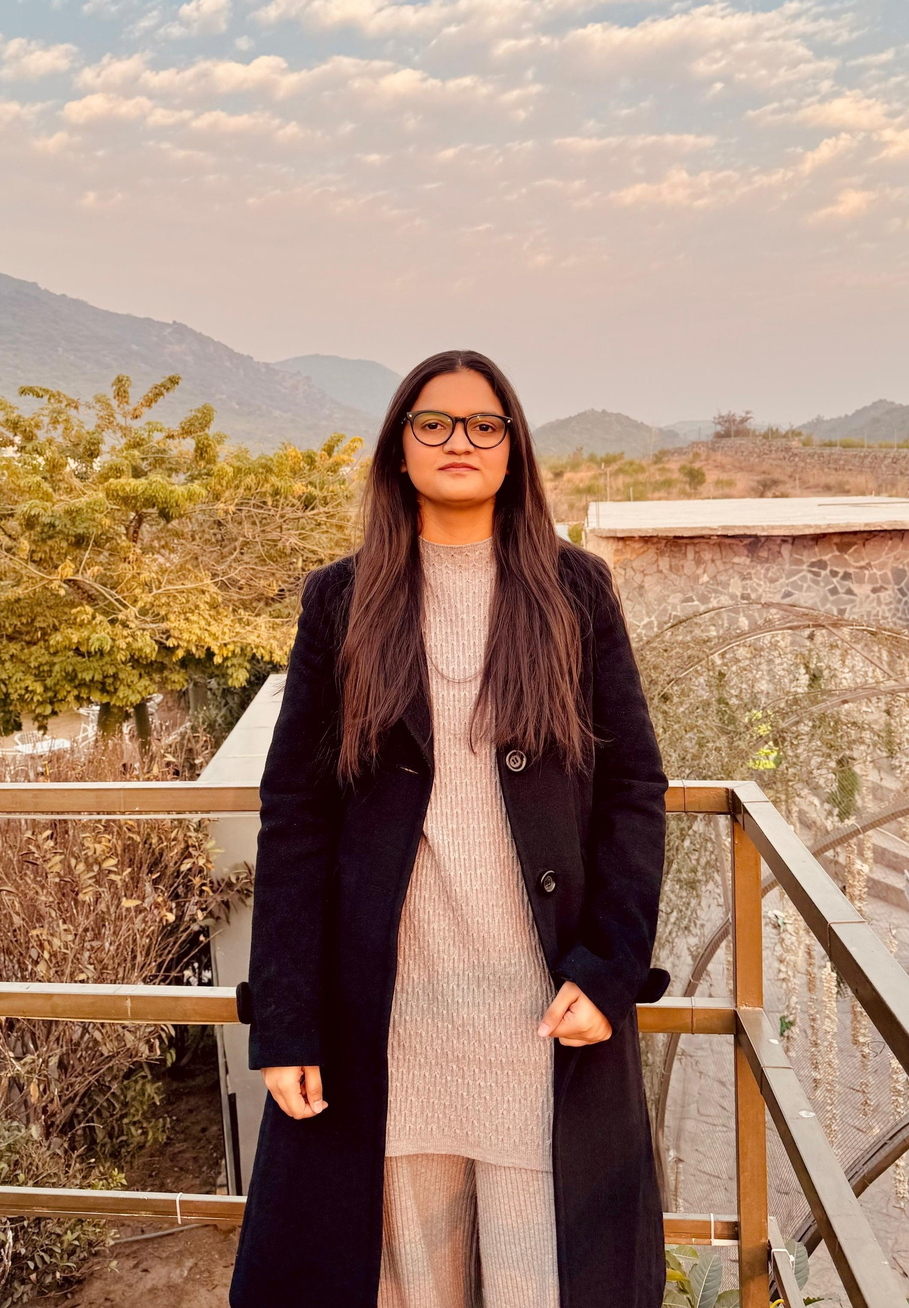
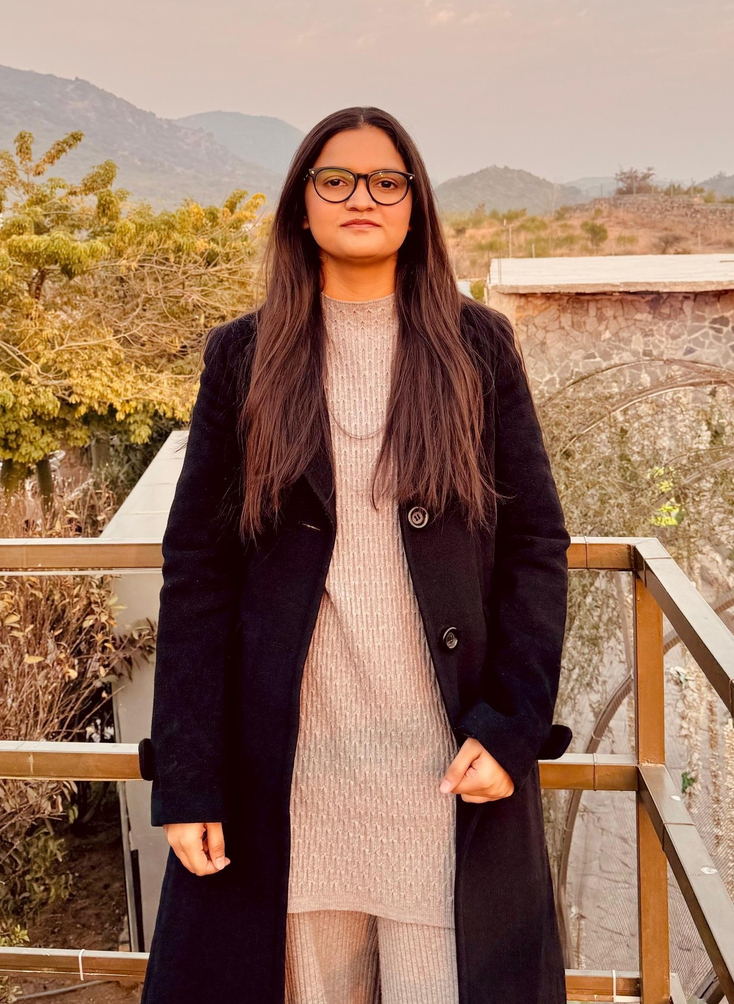
add form link and pics

diff --git a/index.html b/index.html
@@ -146,7 +146,7 @@
 					<div class="row d-md-flex no-gutters slider-text align-items-end justify-content-end"
 						data-scrollax-parent="true">
 						<div class="one-third js-fullheight order-md-last img"
-							style="background-image:url(images/linkedin_pic_1.jpeg);">
+							style="background-image:url(images/linkedin_pic_4.jpeg);">
 							<div class="overlay"></div>
 						</div>
 						<div class="one-forth d-flex  align-items-center ftco-animate"
@@ -223,7 +223,7 @@
 								<div class="row">
 									<div class="col-sm-6 col-md-5">
 										<div class="about-img">
-											<img src="images/bg_1.jpeg" class="img-fluid rounded b-shadow-a" alt="">
+											<img src="images/linkedin_pic_4.jpeg" class="img-fluid rounded b-shadow-a" alt="">
 										</div>
 									</div>
 									<!-- Details next to profile image -->
@@ -636,22 +636,18 @@
 					<br>
 					<div class="row justify-content-center">
 						<div class="col-md-7 ftco-animate text-center">
-							<h2>Have a<span> Question? </span> <a href="https://forms.gle/uLaTShUKXraAvHJ77"
+							<h2>Have a<span> Question? </span> <a href="https://forms.gle/fkMv17Tbzo5t3p3m7"
 									class="btn btn-primary py-3 px-5">Click Here</a> </h2>
 						</div>
 					</div>
 					<br>
 					<ul class="ftco-footer-social list-unstyled d-flex justify-content-center align-items-center mb-0">
 						<li class="ftco-animate normal-txt">Find me on </li>
-						<li class="ftco-animate"><a href="https://www.youtube.com/@RishabhMishraOfficial"><span
-									class="icon-youtube"></span></a></li>
-						<li class="ftco-animate"><a href="https://www.linkedin.com/in/rishabhnmishra/"><span
+						<li class="ftco-animate"><a href="https://github.com/its-malaika16"><span
+									class="icon-github"></span></a></li>
+						<li class="ftco-animate"><a href="https://www.linkedin.com/in/malaika-zafar-628a67224"><span
 									class="icon-linkedin"></span></a></li>
-						<li class="ftco-animate"><a href="https://twitter.com/rishabhnmishra"><span
-									class="icon-twitter"></span></a></li>
-						<li class="ftco-animate"><a href="https://twitter.com/rishabhnmishra"><span
-									class="icon-facebook"></span></a></li>
-						<li class="ftco-animate"><a href="https://www.instagram.com/rishabhnmishra/"><span
+						<li class="ftco-animate"><a href="https://www.instagram.com/malaikaa_z?igsh=MWVueGg1cHpmaG9vMg=="><span
 									class="icon-instagram"></span></a></li>
 					</ul>
 					<br>
